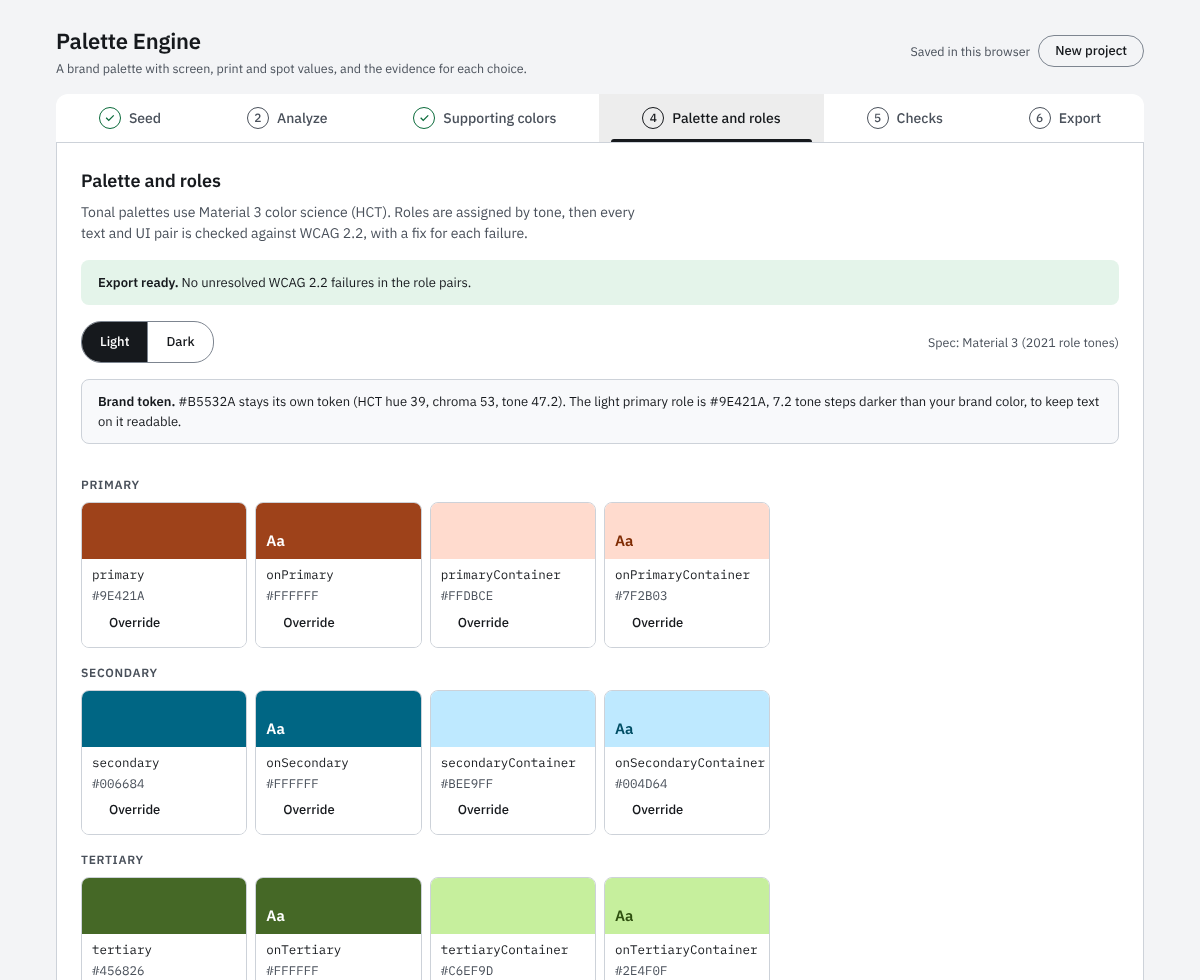
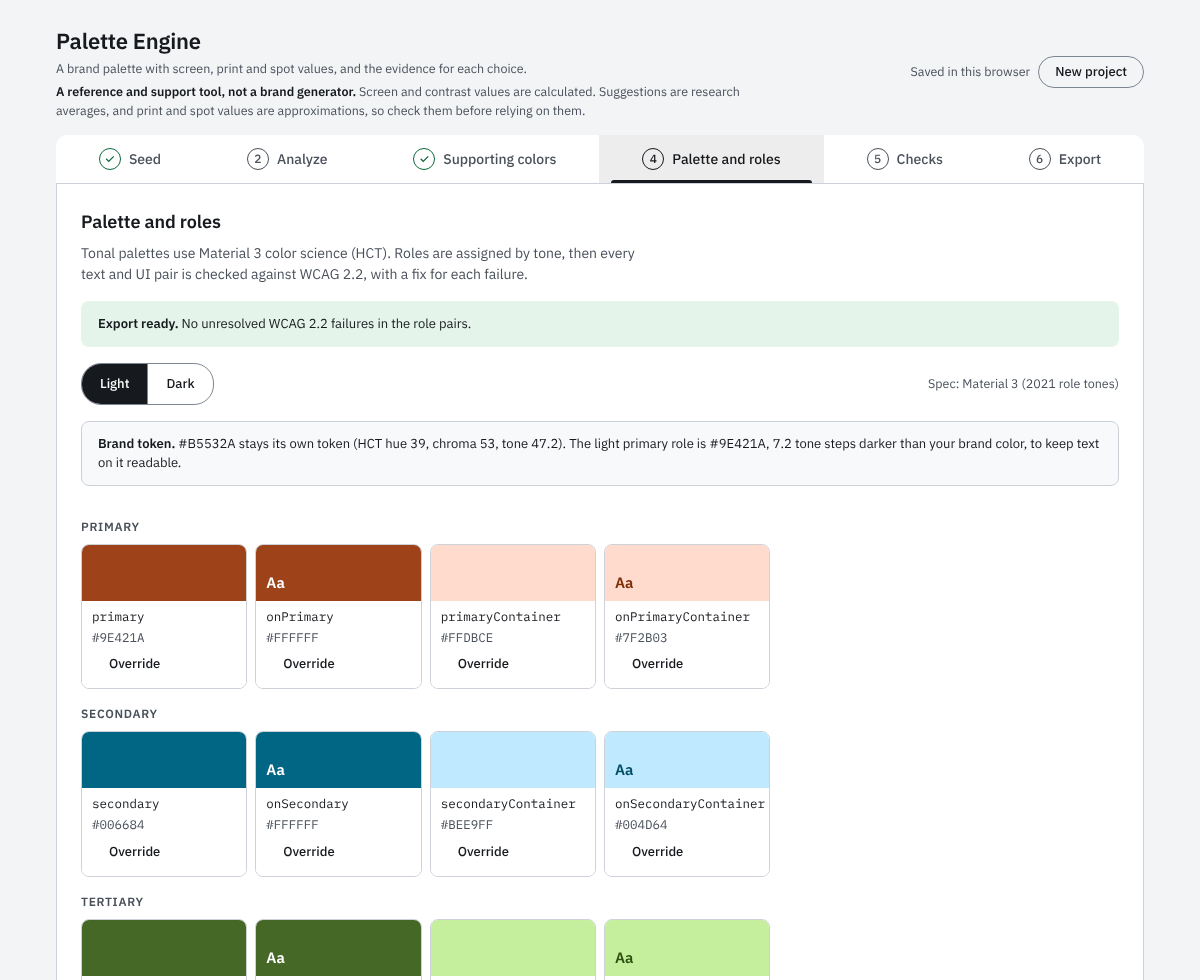
Header: add a reference-and-support framing note; retake step screenshots (pe-update59)
A two-line note under the subtitle says the tool is a reference and support tool, what is calculated and what is approximate. One new end-to-end check; the six step screenshots are retaken.

Claude-Session: https://claude.ai/code/session_0184tGNm9zeFvYZm52xvWYoY

diff --git a/web/style.css b/web/style.css
@@ -63,6 +63,8 @@ code, .mono { font-family: var(--mono); font-size: 12.5px; font-variant-numeric:
 header.top { display: flex; flex-wrap: wrap; gap: 8px 24px; align-items: center; justify-content: space-between; padding-block: 8px 16px; }
 header.top .brand { display: flex; flex-direction: column; gap: 2px; }
 header.top .brand .muted { font-size: 12.5px; }
+header.top .brand .scope { margin: 2px 0 0; max-width: 92ch; font-size: 12.5px; line-height: 1.5; }
+header.top .brand .scope b { font-weight: 600; color: var(--ink); }
 .savestate { font-size: 12.5px; color: var(--ink-2); }
 
 /* --- tabs (M3 primary tab: 48px tall, 3px indicator) ------------------------------------------ */
